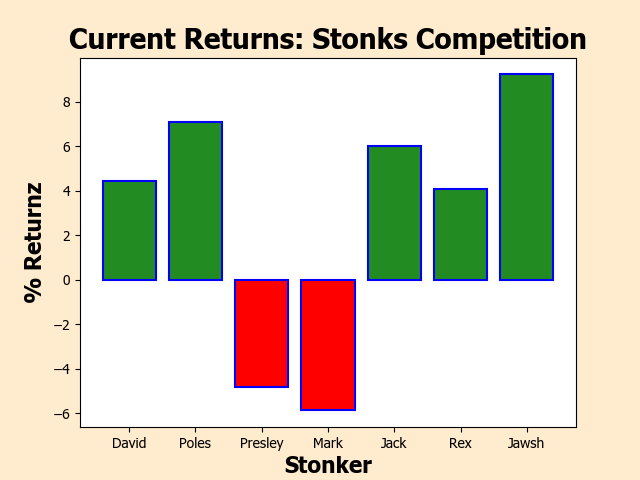
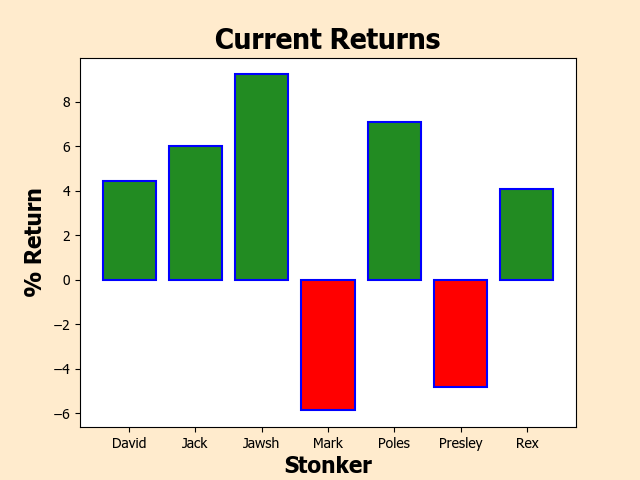
v1.0 --- made more mobile friendly (at the expensive of desktop - will maybe fix later), added footer, and cleaned up python

diff --git a/templates/web.html b/templates/web.html
@@ -6,6 +6,28 @@
 <html>
     <head>
         <style>
+            .center {
+                    display: block;
+                    text-align: center;
+                    border: 3px solid rgb(0, 0, 0);
+                    margin: auto;
+                    }
+
+            .center2 {
+                    text-align: center;
+                    margin: auto;
+                    }
+
+            .tcenter {
+                        margin-left: auto;
+                        margin-right: auto;
+                        margin: auto;
+                    }
+            img {
+                    display: block;
+                    margin-left: auto;
+                    margin-right: auto;
+                }
             body {
                 /*
                 background-image: url('/static/stonkman.jpg');
@@ -28,14 +50,15 @@
         <!--[if lt IE 7]>
             <p class="browsehappy">You are using an <strong>outdated</strong> browser. Please <a href="#">upgrade your browser</a> to improve your experience.</p>
         <![endif]-->
-        <h1 style= padding-left:180px>Stonk Challenge Test</h1>
+        <div class="center">
+            <h1>Stonks Chat Year Challenge</h1>
+        </div>
         <script src="" async defer></script>
         <style>
             table, th, td {
               border: 1px solid rgb(0, 0, 0);
               border-spacing: 0px;
               width:auto;
-              margin-left: 60px;
             }
             tr:nth-child(odd) {background-color: #c5c6ce;}
             tr:nth-child(even) {background-color: #ffffff;}
@@ -48,8 +71,9 @@
             </style>
             </head>
             <body>
+                <h1></h1>
             
-            <table>
+            <table class="tcenter">
               <tr>
                 <th>Name</th>
                 <th>Ticker</th>
@@ -68,29 +92,41 @@
                 </tr>
               {%endfor%}
             </table>
-            <img src="/static/stonk_graph.png">
-            <h1 style= padding-left:120px>Your current Stonks KING:</h1>
+
+            <img src="/static/stonk_graph.png" style="width:400px">
+            <div class="center2">
+                <h1>Your current Stonks KING:</h1>
+            </div>
             {%if (content.max == 0) %}
-                <img src="/static/david.JPG" style="width:600px" padding-right= 200px>
+                <img src="/static/david.JPG" style="width:400px">
             {%endif%}
             {%if (content.max == 1) %}
-                <img src="/static/poles2.GIF" style="width:600px" padding-right= 200px>
+                <img src="/static/jack.PNG" style="width:400px">
             {%endif%}
             {%if (content.max == 2) %}
-                <img src="/static/presley.JPG" style="width:600px" padding-right= 200px>
+                <img src="/static/josh.JPG" style="width:400px">
             {%endif%}
             {%if (content.max ==3) %}
-                <img src="/static/mark.JPG" style="width:600px" padding-right= 200px>
+                <img src="/static/mark.JPG" style="width:400px">
             {%endif%}
             {%if (content.max == 4) %}
-                <img src="/static/jack.PNG" style="width:600px" padding-right= 200px>
+                <img src="/static/poles2.GIF" style="width:400px">
             {%endif%}
             {%if (content.max == 5) %}
-                <img src="/static/rex.png" style="width:600px" padding-right= 200px>
+                <img src="/static/presley.JPG" style="width:400px">
             {%endif%}
             {%if (content.max == 6) %}
-                <img src="/static/josh.JPG" style="width:600px" padding-right= 200px>
+                <img src="/static/rex.png" style="width:400px">
             {%endif%}
+            <h1></h1>
+            <h1></h1>
+
+            <footer>
+                <p class= 'center2'>Created by: Presley Duggan and David Delaney<br>
+                <a href="mailto:mail@pres.dev">mail@pres.dev</a></p>
+              </footer>
+            <h1></h1>
+
 
     </body>
 </html>

diff --git a/stonk.py b/stonk.py
@@ -12,51 +12,47 @@ from decimal import Decimal
 app = Flask(__name__)
 app.config['SEND_FILE_MAX_AGE_DEFAULT'] = 0
 @app.route('/')
-def printrand():
-    ticker = ['SNDL', 'PSTH', 'TSLA', 'SQ', 'IPOE', 'AJAX', 'F']
-    names = ['David', 'Poles', 'Presley', 'Mark', 'Jack', 'Rex', 'Jawsh']
-    startPrice = [0.68, 27.75, 867.92, 241.99, 19.02, 11.52, 9.00]
+def stonk_showcase():
+    myDict = {}
+
+    myDict["names"] = ['David', 'Jack', 'Jawsh', 'Mark', 'Poles', 'Presley', 'Rex']
+    myDict["ticker"] = ['SNDL', 'IPOE', 'F', 'SQ', 'PSTH', 'TSLA', 'AJAX']
+    myDict["startPrice"] = [0.68, 19.02, 9.00, 241.99, 27.75, 867.92, 11.52]
+
     currentPrice = []
     percentReturn = []
-    for elem in range(0,len(ticker)):
-        currentPrice.append(round(si.get_live_price(ticker[elem]),2))
 
-    for i in range(0, len(startPrice)):
-        percentReturn.append(round((((currentPrice[i]-startPrice[i])/startPrice[i])*100),2))
+    for elem in range(0,len(myDict["ticker"])):
+        currentPrice.append(round(si.get_live_price(myDict["ticker"][elem]),2))
+
+    for i in range(0, len(myDict["startPrice"])):
+        percentReturn.append(round((((currentPrice[i]-myDict["startPrice"][i])/myDict["startPrice"][i])*100),2))
 
     max_index = percentReturn.index(max(percentReturn))
     #print(max_index)
 
     #save values into dictionary for easy access in html
-    myDict = {}
-    myDict["names"] = names
-    myDict["ticker"] = ticker
-    myDict["startPrice"] = startPrice
     myDict["currentPrice"] = currentPrice
     myDict["percentReturn"] = percentReturn
     myDict["max"] = max_index
-    myDict["test"] = {False, False, False, False, True, False, False}
-    #test
 
     positive = []
     negative = []
 
-    for i in range(0, len(names)):
+    for i in range(0, len(myDict["names"])):
         negative.append(percentReturn[i] < 0)
         positive.append(percentReturn[i] >= 0)
-        # plt.bar(names[i][negative[i]], percentReturn[i][negative[i]], color = 'red')
-        # plt.bar(names[i][positive[i]], percentReturn[i][positive[i]], color = 'green')
 
 
-    for i in range(0, len(names)):
-        plt.bar(names[i], percentReturn[i][positive[i]], color = 'forestgreen', edgecolor = 'blue', linewidth = 1.5)
-        plt.bar(names[i], percentReturn[i][negative[i]], color = 'red', edgecolor = 'blue', linewidth = 1.5)
+    for i in range(0, len(myDict["names"])):
+        plt.bar(myDict["names"][i], percentReturn[i][positive[i]], color = 'forestgreen', edgecolor = 'blue', linewidth = 1.5)
+        plt.bar(myDict["names"][i], percentReturn[i][negative[i]], color = 'red', edgecolor = 'blue', linewidth = 1.5)
     
-    plt.ylabel('% Returnz', fontsize = 16, fontweight='bold')
+    plt.ylabel('% Return', fontsize = 16, fontweight='bold')
     plt.rc('axes', axisbelow=True)
     #plt.grid(False, color = 'gray', linestyle = 'dashed')
     plt.xlabel('Stonker', fontsize = 16, fontweight='bold')
-    plt.title('Current Returns: Stonks Competition', fontweight='bold', fontsize = 20)
+    plt.title('Current Returns', fontweight='bold', fontsize = 20)
     plt.savefig('static/stonk_graph.png', facecolor='blanchedalmond', edgecolor='none')
     return render_template('web.html', content= myDict)
 
